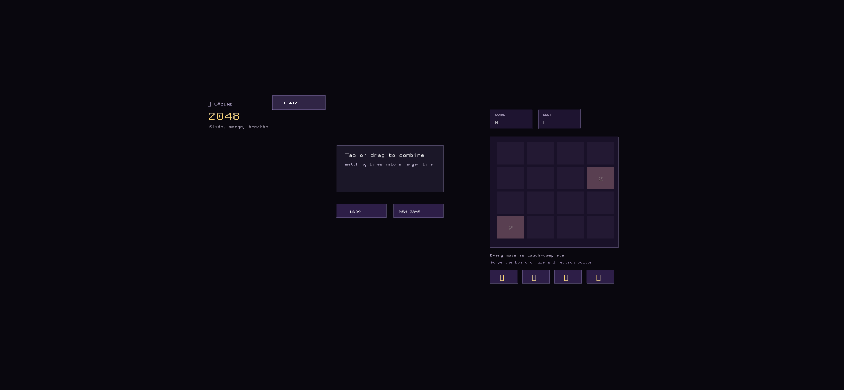
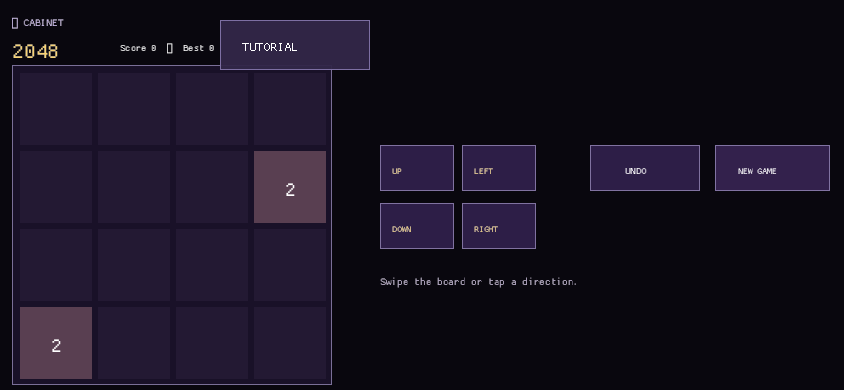
The wider cabinet opens a touch-sized horizon (Medium Landscape Cabinet and 2048)
Add an 844x390 medium landscape canvas for cabinet navigation and 2048, with large cards, arrows, undo, new game, and preserved swipe input. Verify the two landscape captures, Clippy, tests, and Preview publish.

diff --git a/src/responsive_landscape.rs b/src/responsive_landscape.rs
@@ -1,0 +1,283 @@
+//! Medium landscape layouts for short touch screens.
+
+use crate::{
+    cosmetics,
+    data::GameData,
+    palette_ui,
+    state::{AppState, Direction, GameId},
+    ui::UiAction,
+};
+use macroquad::prelude::*;
+
+pub const WIDTH: f32 = 844.;
+pub const HEIGHT: f32 = 390.;
+
+fn panel(rect: Rect, fill: Color) {
+    draw_rectangle(rect.x, rect.y, rect.w, rect.h, fill);
+    draw_rectangle_lines(
+        rect.x,
+        rect.y,
+        rect.w,
+        rect.h,
+        2.,
+        Color::new(0.45, 0.38, 0.65, 0.65),
+    );
+}
+fn text(value: &str, x: f32, y: f32, size: f32, color: Color) {
+    draw_text(value, x, y, size, color);
+}
+
+fn cabinet_rect(index: usize) -> Rect {
+    Rect::new(
+        8. + (index % 4) as f32 * 210.,
+        54. + (index / 4) as f32 * 130.,
+        200.,
+        112.,
+    )
+}
+
+pub fn draw_cabinet(state: &AppState, _data: &GameData, loaded: usize) {
+    text(
+        "IDLE HANDS",
+        12.,
+        30.,
+        25.,
+        cosmetics::cabinet_accent(state.cabinet_decoration),
+    );
+    text(
+        "Quiet games for a wider pause",
+        190.,
+        28.,
+        13.,
+        Color::new(0.72, 0.68, 0.82, 1.),
+    );
+    for (index, game) in GameId::ALL.iter().enumerate() {
+        let rect = cabinet_rect(index);
+        panel(rect, Color::new(0.17, 0.12, 0.27, 1.));
+        text(
+            game.title(),
+            rect.x + 10.,
+            rect.y + 27.,
+            16.,
+            Color::new(0.98, 0.82, 0.42, 1.),
+        );
+        text(
+            cabinet_status(state, *game),
+            rect.x + 10.,
+            rect.y + 51.,
+            11.,
+            Color::new(0.98, 0.75, 0.30, 1.),
+        );
+        text(
+            game.subtitle(),
+            rect.x + 10.,
+            rect.y + 78.,
+            11.,
+            Color::new(0.69, 0.65, 0.78, 1.),
+        );
+        draw_circle(
+            rect.right() - 20.,
+            rect.y + 20.,
+            12.,
+            cosmetics::cabinet_accent(state.cabinet_decoration),
+        );
+        text(
+            &(index + 1).to_string(),
+            rect.right() - 24.,
+            rect.y + 25.,
+            11.,
+            Color::new(0.08, 0.05, 0.12, 1.),
+        );
+    }
+    text(
+        &format!("{} stamps  •  {} textures", state.stamps, loaded),
+        12.,
+        344.,
+        11.,
+        Color::new(0.52, 0.48, 0.64, 1.),
+    );
+    for (rect, label) in [
+        (Rect::new(450., 330., 112., 42.), "HELP"),
+        (Rect::new(570., 330., 112., 42.), "RECORDS"),
+        (Rect::new(690., 330., 140., 42.), "SETTINGS"),
+    ] {
+        panel(rect, Color::new(0.12, 0.08, 0.20, 1.));
+        text(label, rect.x + 15., rect.y + 27., 11., WHITE);
+    }
+}
+
+pub fn cabinet_clicks(p: Vec2) -> Vec<UiAction> {
+    for index in 0..8 {
+        if cabinet_rect(index).contains(p) {
+            return vec![UiAction::Open(index)];
+        }
+    }
+    for (rect, action) in [
+        (Rect::new(450., 330., 112., 42.), UiAction::Help),
+        (Rect::new(570., 330., 112., 42.), UiAction::Records),
+        (Rect::new(690., 330., 140., 42.), UiAction::Settings),
+    ] {
+        if rect.contains(p) {
+            return vec![action];
+        }
+    }
+    vec![]
+}
+
+pub fn draw_2048(state: &AppState) {
+    let game = &state.game;
+    text("‹ CABINET", 12., 26., 13., Color::new(0.78, 0.70, 0.92, 1.));
+    text("2048", 12., 58., 27., Color::new(0.98, 0.83, 0.45, 1.));
+    text(
+        &format!("Score {}  •  Best {}", game.score, game.best),
+        120.,
+        51.,
+        12.,
+        WHITE,
+    );
+    let board = Rect::new(12., 65., 320., 320.);
+    panel(board, Color::new(0.10, 0.07, 0.16, 1.));
+    for index in 0..16 {
+        let rect = Rect::new(
+            board.x + 8. + (index % 4) as f32 * 78.,
+            board.y + 8. + (index / 4) as f32 * 78.,
+            72.,
+            72.,
+        );
+        let value = game.cells[index];
+        draw_rectangle(
+            rect.x,
+            rect.y,
+            rect.w,
+            rect.h,
+            palette_ui::tile_color(value, state.board_theme),
+        );
+        if value > 0 {
+            let label = value.to_string();
+            let size = if value < 100 { 25. } else { 19. };
+            let width = measure_text(&label, None, size as u16, 1.).width;
+            text(
+                &label,
+                rect.x + (rect.w - width) / 2.,
+                rect.y + 45.,
+                size,
+                WHITE,
+            );
+        }
+    }
+    for (index, direction) in [
+        Direction::Up,
+        Direction::Left,
+        Direction::Down,
+        Direction::Right,
+    ]
+    .iter()
+    .enumerate()
+    {
+        let rect = Rect::new(
+            380. + (index % 2) as f32 * 82.,
+            145. + (index / 2) as f32 * 58.,
+            74.,
+            46.,
+        );
+        panel(rect, Color::new(0.18, 0.12, 0.28, 1.));
+        text(
+            ["UP", "LEFT", "DOWN", "RIGHT"][index],
+            rect.x + 12.,
+            rect.y + 29.,
+            11.,
+            Color::new(0.98, 0.83, 0.45, 1.),
+        );
+        let _ = direction;
+    }
+    panel(
+        Rect::new(590., 145., 110., 46.),
+        Color::new(0.18, 0.12, 0.28, 1.),
+    );
+    text("UNDO", 625., 174., 12., WHITE);
+    panel(
+        Rect::new(715., 145., 115., 46.),
+        Color::new(0.20, 0.13, 0.30, 1.),
+    );
+    text("NEW GAME", 738., 174., 11., WHITE);
+    text(
+        "Swipe the board or tap a direction.",
+        380.,
+        285.,
+        13.,
+        Color::new(0.70, 0.64, 0.78, 1.),
+    );
+    if state.confirm_restart {
+        panel(
+            Rect::new(375., 215., 300., 120.),
+            Color::new(0.16, 0.09, 0.20, 1.),
+        );
+        text("Start a new board?", 435., 250., 18., WHITE);
+        panel(
+            Rect::new(395., 270., 115., 42.),
+            Color::new(0.25, 0.16, 0.32, 1.),
+        );
+        text("CANCEL", 425., 297., 12., WHITE);
+        panel(
+            Rect::new(535., 270., 115., 42.),
+            Color::new(0.45, 0.22, 0.25, 1.),
+        );
+        text("START", 572., 297., 12., WHITE);
+    }
+}
+
+pub fn game2048_clicks(state: &AppState, p: Vec2) -> Vec<UiAction> {
+    if Rect::new(8., 5., 100., 30.).contains(p) {
+        return vec![UiAction::Cabinet];
+    }
+    if state.confirm_restart {
+        if Rect::new(395., 270., 115., 42.).contains(p) {
+            return vec![UiAction::Cancel];
+        }
+        if Rect::new(535., 270., 115., 42.).contains(p) {
+            return vec![UiAction::ConfirmRestart];
+        }
+        return vec![];
+    }
+    if Rect::new(590., 145., 110., 46.).contains(p) && state.game.can_undo() {
+        return vec![UiAction::Undo];
+    }
+    if Rect::new(715., 145., 115., 46.).contains(p) {
+        return vec![UiAction::Restart];
+    }
+    for (index, direction) in [
+        Direction::Up,
+        Direction::Left,
+        Direction::Down,
+        Direction::Right,
+    ]
+    .iter()
+    .enumerate()
+    {
+        if Rect::new(
+            380. + (index % 2) as f32 * 82.,
+            145. + (index / 2) as f32 * 58.,
+            74.,
+            46.,
+        )
+        .contains(p)
+        {
+            return vec![UiAction::Move(*direction)];
+        }
+    }
+    vec![]
+}
+
+fn cabinet_status(state: &AppState, game: GameId) -> &'static str {
+    match game {
+        GameId::Game2048 if state.records.best_2048 >= 2048 => "COMPLETE",
+        GameId::Minesweeper if state.records.minesweeper.iter().any(Option::is_some) => "COMPLETE",
+        GameId::Sudoku if state.records.sudoku.iter().any(Option::is_some) => "COMPLETE",
+        GameId::Nonogram if state.records.nonogram.iter().any(Option::is_some) => "COMPLETE",
+        GameId::Solitaire if state.records.solitaire_best_moves.is_some() => "COMPLETE",
+        GameId::FreeCell if state.records.freecell_best_moves.is_some() => "COMPLETE",
+        GameId::Yahtzee if state.records.fivefold_best_total > 0 => "COMPLETE",
+        GameId::Reversi if state.records.reversi_best_score > 0 => "COMPLETE",
+        _ => "PLAY NOW",
+    }
+}

diff --git a/src/ui.rs b/src/ui.rs
@@ -10,6 +10,7 @@ use crate::nonogram_ui;
 use crate::palette_ui;
 use crate::records_ui;
 use crate::responsive_cards;
+use crate::responsive_landscape;
 use crate::responsive_library;
 use crate::responsive_puzzles;
 use crate::responsive_ui;
@@ -94,7 +95,9 @@ pub fn viewport() -> Viewport {
     Viewport::new(screen_width(), screen_height(), width, height)
 }
 pub fn layout_size() -> (f32, f32) {
-    if is_portrait() {
+    if is_compact_landscape() {
+        (responsive_landscape::WIDTH, responsive_landscape::HEIGHT)
+    } else if is_portrait() {
         (responsive_ui::WIDTH, responsive_ui::HEIGHT)
     } else {
         (LOGICAL_WIDTH, LOGICAL_HEIGHT)
@@ -102,6 +105,9 @@ pub fn layout_size() -> (f32, f32) {
 }
 pub fn is_portrait() -> bool {
     screen_height() > screen_width() * 1.15
+}
+pub fn is_compact_landscape() -> bool {
+    screen_width() <= 900. && screen_width() > screen_height() * 1.15
 }
 pub fn mouse() -> Vec2 {
     viewport()
@@ -123,6 +129,7 @@ pub fn clicks(state: &AppState) -> Vec<UiAction> {
         return vec![UiAction::ReplayTutorial];
     }
     match state.screen {
+        Screen::Cabinet if is_compact_landscape() => responsive_landscape::cabinet_clicks(p),
         Screen::Cabinet if is_portrait() => responsive_ui::cabinet_clicks(p),
         Screen::Cabinet => {
             let mut out = vec![];
@@ -141,6 +148,9 @@ pub fn clicks(state: &AppState) -> Vec<UiAction> {
                 out.push(UiAction::Settings)
             }
             out
+        }
+        Screen::Game(GameId::Game2048) if is_compact_landscape() => {
+            responsive_landscape::game2048_clicks(state, p)
         }
         Screen::Game(GameId::Game2048) if is_portrait() => responsive_ui::game2048_clicks(state, p),
         Screen::Game(GameId::Game2048) => game_clicks(state, p),
@@ -195,8 +205,14 @@ pub fn clicks(state: &AppState) -> Vec<UiAction> {
 }
 pub fn draw(state: &AppState, data: &GameData, loaded_assets: usize) {
     match state.screen {
+        Screen::Cabinet if is_compact_landscape() => {
+            responsive_landscape::draw_cabinet(state, data, loaded_assets)
+        }
         Screen::Cabinet if is_portrait() => responsive_ui::draw_cabinet(state, data, loaded_assets),
         Screen::Cabinet => draw_cabinet(state, data, loaded_assets),
+        Screen::Game(GameId::Game2048) if is_compact_landscape() => {
+            responsive_landscape::draw_2048(state)
+        }
         Screen::Game(GameId::Game2048) if is_portrait() => responsive_ui::draw_2048(state),
         Screen::Game(GameId::Game2048) => draw_2048(state),
         Screen::Game(GameId::Minesweeper) if is_portrait() => {

diff --git a/src/main.rs b/src/main.rs
@@ -21,6 +21,7 @@ mod palette_ui;
 mod progression;
 mod records_ui;
 mod responsive_cards;
+mod responsive_landscape;
 mod responsive_library;
 mod responsive_puzzles;
 mod responsive_ui;

diff --git a/TODO.md b/TODO.md
@@ -129,6 +129,8 @@ sizes, covered by rule tests, and passes `publish.ps1`.
     390×844.
   - [x] Capture the complete landscape baseline at 844×390 for all named
     game, library, settings, and cabinet scenes; touch-size review remains.
+  - [x] Verify touch-sized medium landscape cabinet and 2048 layouts at
+    844×390, including cabinet navigation, arrows, undo, and new game.
 - [x] Run the complete capture matrix, replace duplicate-state images, and update
   the catalog thumbnail with the final cabinet.
 - [x] Complete final `cargo fmt`, tests, warning-free Clippy, and `publish.ps1`.
